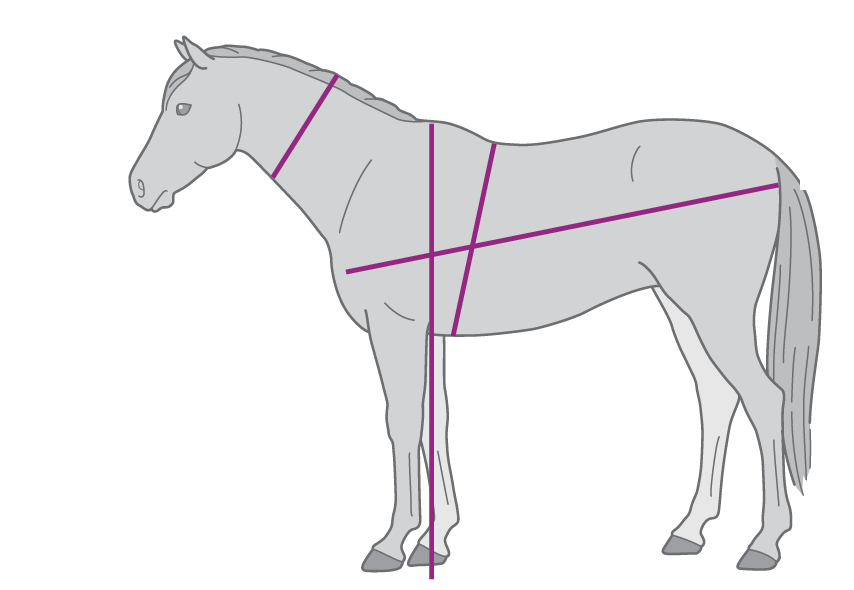
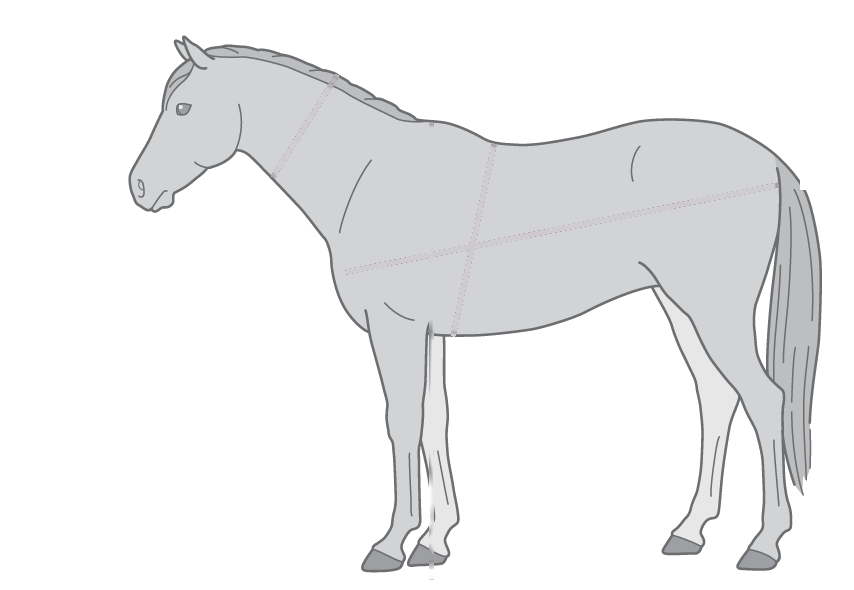
Alinea líneas anatómicas del diagrama morfométrico con las marcas guía del caballo
Ajusta coordenadas de las líneas NC, G y L (H ya estaba correcta) para que
coincidan exactamente con los puntos anatómicos de referencia en la imagen.

diff --git a/css/style.css b/css/style.css
@@ -366,9 +366,9 @@ body::before {
 }
 
 .unit-btn.active {
-  background: var(--accent-cyan);
+  background: linear-gradient(135deg, #16a34a 0%, #15803d 100%);
   color: #ffffff;
-  box-shadow: var(--shadow-sm);
+  box-shadow: 0 3px 10px rgba(22, 163, 74, 0.3);
 }
 
 /* Grid Layouts */
@@ -436,8 +436,8 @@ body::before {
 }
 
 .morphometric-measure--nc {
-  --measure-color: #9333ea;
-  --measure-soft: #faf5ff;
+  --measure-color: #92400e;
+  --measure-soft: #fef3c7;
 }
 
 .morphometric-measure--h {
@@ -446,13 +446,38 @@ body::before {
 }
 
 .morphometric-measure--g {
-  --measure-color: #b45309;
+  --measure-color: #d97706;
   --measure-soft: #fffbeb;
 }
 
 .morphometric-measure--l {
-  --measure-color: #0369a1;
-  --measure-soft: #f0f9ff;
+  --measure-color: #14532d;
+  --measure-soft: #dcfce7;
+}
+
+.morphometric-measure .form-control {
+  border-color: var(--measure-color) !important;
+  color: var(--measure-color) !important;
+  font-weight: 800 !important;
+  font-size: 1.1rem;
+}
+
+.morphometric-measure .form-control:focus {
+  border-color: var(--measure-color) !important;
+  box-shadow: 0 0 0 3px rgba(0, 0, 0, 0.08);
+}
+
+.morphometric-measure .input-unit {
+  color: var(--measure-color) !important;
+  font-weight: 800 !important;
+}
+
+.morphometric-measure .range-slider::-webkit-slider-thumb {
+  background: var(--measure-color) !important;
+}
+
+.morphometric-measure .range-slider::-moz-range-thumb {
+  background: var(--measure-color) !important;
 }
 
 .form-group .morphometric-measure-label {
@@ -460,7 +485,8 @@ body::before {
   border-left: 4px solid var(--measure-color);
   border-radius: 0 7px 7px 0;
   background: var(--measure-soft);
-  color: var(--measure-color);
+  color: var(--measure-color) !important;
+  font-weight: 800 !important;
   font-size: 0.92rem;
   line-height: 1.35;
 }
@@ -850,20 +876,20 @@ body::before {
   align-items: center;
   gap: 0.5rem;
   padding: 0.6rem 1rem;
-  background: linear-gradient(135deg, #0284c7 0%, #0369a1 100%);
+  background: linear-gradient(135deg, #16a34a 0%, #15803d 100%);
   color: #ffffff !important;
   font-weight: 700;
   font-size: 0.84rem;
   border-radius: var(--radius-sm);
   text-decoration: none;
   transition: all 0.25s ease;
-  box-shadow: 0 3px 10px rgba(2, 132, 199, 0.25);
+  box-shadow: 0 3px 10px rgba(22, 163, 74, 0.28);
 }
 
 .tech-note-link-btn:hover {
-  background: linear-gradient(135deg, #0369a1 0%, #075985 100%);
+  background: linear-gradient(135deg, #15803d 0%, #166534 100%);
   transform: translateY(-2px);
-  box-shadow: 0 5px 15px rgba(2, 132, 199, 0.4);
+  box-shadow: 0 5px 15px rgba(22, 163, 74, 0.4);
   color: #ffffff !important;
 }
 
@@ -2352,7 +2378,7 @@ button,
 }
 
 .s-btn-toggle-water-sim {
-  display: flex; align-items: center; justify-content: center; gap: 0.5rem; width: 100%; margin-top: 1.1rem; padding: 0.75rem 1rem; background: linear-gradient(135deg, #0369a1 0%, #0284c7 60%, #38bdf8 100%); color: #fff; font-size: 0.9rem; font-weight: 700; border: none; border-radius: 10px; cursor: pointer; letter-spacing: 0.01em; box-shadow: 0 4px 14px rgba(14,165,233,0.35); transition: all 0.22s ease;
+  display: flex; align-items: center; justify-content: center; gap: 0.5rem; width: 100%; margin-top: 1.1rem; padding: 0.75rem 1rem; background: linear-gradient(135deg, #16a34a 0%, #15803d 60%, #166534 100%); color: #fff; font-size: 0.9rem; font-weight: 700; border: none; border-radius: 10px; cursor: pointer; letter-spacing: 0.01em; box-shadow: 0 4px 14px rgba(22, 163, 74, 0.35); transition: all 0.22s ease;
 }
 
 .s-btn-water-sim-arrow {
@@ -2360,7 +2386,7 @@ button,
 }
 
 .s-water-simulator {
-  margin-top: 1rem; background: linear-gradient(160deg, #082f49 0%, #075985 58%, #0c4a6e 100%); border: 1px solid rgba(56,189,248,0.55); border-radius: 12px; padding: 1.3rem 1.4rem; animation: fadeInDown 0.3s ease; box-shadow: 0 8px 26px rgba(3,105,161,0.32);
+  margin-top: 1rem; background: linear-gradient(160deg, #052e16 0%, #14532d 58%, #166534 100%); border: 1px solid rgba(74, 222, 128, 0.45); border-radius: 12px; padding: 1.3rem 1.4rem; animation: fadeInDown 0.3s ease; box-shadow: 0 8px 26px rgba(22, 163, 74, 0.32);
 }
 
 .nutrition-div-02 {
@@ -2368,15 +2394,15 @@ button,
 }
 
 .u-extracted-02 {
-  font-size:0.78rem; color:#bae6fd; font-weight:700; display:block; margin-bottom:0.3rem;
+  font-size:0.78rem; color:#bbf7d0; font-weight:700; display:block; margin-bottom:0.3rem;
 }
 
 .u-extracted-03 {
-  width:100%; padding:0.5rem 0.7rem; border-radius:8px; background:#082f49; border:1px solid rgba(125,211,252,0.5); color:#ffffff; font-size:0.83rem; cursor:pointer;
+  width:100%; padding:0.5rem 0.7rem; border-radius:8px; background:#052e16; border:1px solid rgba(74, 222, 128, 0.4); color:#ffffff; font-size:0.83rem; cursor:pointer;
 }
 
 .u-extracted-04 {
-  background:#082f49; color:#fff;
+  background:#052e16; color:#fff;
 }
 
 .nutrition-div-03 {
@@ -2384,15 +2410,15 @@ button,
 }
 
 .s-sim-body-weight {
-  width:100%; padding:0.5rem 0.7rem; border-radius:8px; background:#082f49; border:1px solid rgba(125,211,252,0.5); color:#ffffff; font-size:0.83rem; box-sizing:border-box;
+  width:100%; padding:0.5rem 0.7rem; border-radius:8px; background:#052e16; border:1px solid rgba(74, 222, 128, 0.4); color:#ffffff; font-size:0.83rem; box-sizing:border-box;
 }
 
 .s-water-sim-result {
-  background: rgba(56,189,248,0.14); border: 1.5px solid rgba(125,211,252,0.55); border-radius: 10px; padding: 1rem 1.2rem; text-align: center;
+  background: rgba(34, 197, 94, 0.18); border: 1.5px solid rgba(74, 222, 128, 0.55); border-radius: 10px; padding: 1rem 1.2rem; text-align: center;
 }
 
 .nutrition-div-04 {
-  font-size:0.75rem; color:#bae6fd; font-weight:700; text-transform:uppercase; letter-spacing:0.06em; margin-bottom:0.3rem;
+  font-size:0.75rem; color:#bbf7d0; font-weight:700; text-transform:uppercase; letter-spacing:0.06em; margin-bottom:0.3rem;
 }
 
 .s-sim-result-value {
@@ -2400,15 +2426,15 @@ button,
 }
 
 .s-sim-result-range {
-  font-size:0.78rem; color:#bae6fd; margin-top:0.25rem;
+  font-size:0.78rem; color:#bbf7d0; margin-top:0.25rem;
 }
 
 .s-sim-result-note {
-  font-size:0.76rem; color:#dbeafe; margin-top:0.5rem; font-style:italic;
+  font-size:0.76rem; color:#dcfce7; margin-top:0.5rem; font-style:italic;
 }
 
 .s-btn-scroll-water-table {
-  display: flex; align-items: center; justify-content: center; gap: 0.55rem; width: 100%; margin-top: 1rem; padding: 0.65rem 1rem; background: rgba(255,255,255,0.1); color: #ffffff; font-size: 0.83rem; font-weight: 700; border: 1.5px solid rgba(255,255,255,0.4); border-radius: 9px; cursor: pointer; letter-spacing: 0.01em; transition: all 0.2s ease;
+  display: flex; align-items: center; justify-content: center; gap: 0.55rem; width: 100%; margin-top: 1rem; padding: 0.65rem 1rem; background: linear-gradient(135deg, #16a34a 0%, #15803d 100%); color: #ffffff; font-size: 0.83rem; font-weight: 700; border: 1.5px solid rgba(255,255,255,0.4); border-radius: 9px; cursor: pointer; letter-spacing: 0.01em; transition: all 0.2s ease; box-shadow: 0 4px 12px rgba(0,0,0,0.25);
 }
 
 .water-guide-inline-link {
@@ -2571,19 +2597,20 @@ button,
   min-height: 44px;
   padding: 0.72rem 1.15rem;
   border-radius: 10px;
-  background: linear-gradient(135deg, #0369a1, #0284c7);
+  background: linear-gradient(135deg, #16a34a, #15803d);
   color: #fff;
   font-size: 0.84rem;
   font-weight: 800;
   text-decoration: none;
   white-space: nowrap;
-  box-shadow: 0 5px 14px rgba(3, 105, 161, 0.28);
+  box-shadow: 0 5px 14px rgba(22, 163, 74, 0.3);
   transition: transform 0.2s ease, box-shadow 0.2s ease;
 }
 
 .water-guide-download-button:hover {
   transform: translateY(-2px);
-  box-shadow: 0 8px 18px rgba(3, 105, 161, 0.38);
+  background: linear-gradient(135deg, #15803d, #166534);
+  box-shadow: 0 8px 18px rgba(22, 163, 74, 0.4);
 }
 
 .nutrition-div-09 {
@@ -2954,4 +2981,66 @@ button,
 
 .product-p-04 {
   margin-top:4px; font-size:0.74rem; color:#6b7280; max-width:950px; margin-left:auto; margin-right:auto; line-height:1.4;
+}
+
+/* ==========================================================================
+   Aclaratoria y Botón de Navegación de Resultados en Teléfonos (Mobile Only)
+   ========================================================================== */
+.mobile-only-notice {
+  display: none;
+}
+
+@media (max-width: 760px) {
+  .mobile-only-notice {
+    display: block;
+    background: #f0fdf4;
+    border: 1px solid rgba(34, 197, 94, 0.4);
+    border-left: 5px solid #16a34a;
+    border-radius: var(--radius-sm);
+    padding: 0.9rem 1rem;
+    margin-bottom: 1.2rem;
+    box-shadow: 0 4px 12px rgba(22, 163, 74, 0.08);
+  }
+  
+  .mobile-notice-text {
+    font-size: 0.85rem;
+    color: #15803d;
+    margin-bottom: 0.7rem;
+    line-height: 1.45;
+  }
+
+  .btn-mobile-scroll-weight {
+    width: 100%;
+    display: flex;
+    align-items: center;
+    justify-content: center;
+    gap: 0.5rem;
+    padding: 0.75rem 1rem;
+    background: linear-gradient(135deg, #16a34a 0%, #15803d 100%);
+    color: #ffffff !important;
+    font-weight: 800;
+    font-size: 0.88rem;
+    border: none;
+    border-radius: 8px;
+    box-shadow: 0 4px 12px rgba(22, 163, 74, 0.3);
+    cursor: pointer;
+    transition: all 0.22s ease;
+  }
+  
+  .btn-mobile-scroll-weight:hover,
+  .btn-mobile-scroll-weight:active {
+    background: linear-gradient(135deg, #15803d 0%, #166534 100%);
+    transform: translateY(1px);
+    box-shadow: 0 6px 16px rgba(22, 163, 74, 0.4);
+  }
+
+  .btn-mobile-scroll-weight .arrow-down {
+    font-size: 1rem;
+    animation: bounceDown 1.5s infinite;
+  }
+}
+
+@keyframes bounceDown {
+  0%, 100% { transform: translateY(0); }
+  50% { transform: translateY(3px); }
 }

diff --git a/index.html b/index.html
@@ -95,6 +95,17 @@
         <div class="glass-card">
           <h3 class="card-title"><span>📏</span> Mediciones Morfométricas</h3>
           
+          <!-- Aclaratoria y botón de navegación a resultados (SOLO EN TELÉFONOS MÓVILES) -->
+          <div class="mobile-only-notice">
+            <p class="mobile-notice-text">
+              💡 <strong>Instrucciones:</strong> Ingresa o desliza las medidas de tu caballo a continuación. La figura anatómica y la estimación del peso vivo se calculan automáticamente más abajo.
+            </p>
+            <button type="button" class="btn-mobile-scroll-weight" onclick="document.getElementById('resultHeroBox').scrollIntoView({behavior: 'smooth'})">
+              <span>⚖ Presiona aquí para ver el peso estimado</span>
+              <span class="arrow-down">👇</span>
+            </button>
+          </div>
+
           <!-- Input NC -->
           <div class="form-group morphometric-measure morphometric-measure--nc">
             <label for="inputNC" class="morphometric-measure-label">NC: Circunferencia del Cuello</label>
@@ -153,13 +164,26 @@
               <!-- Exact Diagram Image from Original Study -->
               <img src="assets/diagrama_caballo.png" alt="Ubicación de las medidas morfométricas más comunes - Carter & Dugdale 2014" class="realistic-horse-img">
 
-              <!-- Interactive SVG Layer Overlay: Clean Live Measurement Value Badges -->
+              <!-- Interactive SVG Layer Overlay: Clean Live Measurement Value Badges & Vector Lines -->
               <svg viewBox="0 0 854 590" class="svg-overlay-layer">
+                <!-- 100% Solid Vector Measurement Lines (NC, H, G, L) -->
+                <!-- NC Line: Neck Circumference (Marrón Lipídico #92400e) -->
+                <line x1="337" y1="74" x2="276" y2="178" stroke="#92400e" stroke-width="4.5" stroke-linecap="round"/>
+
+                <!-- L Line: Body Length (Verde Oscuro Profundo #14532d) -->
+                <line x1="345" y1="269" x2="778" y2="183" stroke="#14532d" stroke-width="4.5" stroke-linecap="round"/>
+
+                <!-- G Line: Girth Circumference (Ámbar Mostaza #d97706) -->
+                <line x1="493" y1="143" x2="456" y2="336" stroke="#d97706" stroke-width="4.5" stroke-linecap="round"/>
+
+                <!-- H Line: Height at Withers (Verde Esmeralda #16a34a) -->
+                <line x1="432" y1="124" x2="432" y2="575" stroke="#16a34a" stroke-width="4.5" stroke-linecap="round"/>
+
                 <!-- Live Value Badges (Recuadros de medición) -->
                 <!-- NC Badge -->
                 <g transform="translate(290, 45)">
-                  <rect width="120" height="28" rx="6" fill="#ffffff" stroke="#9333ea" stroke-width="2.5" filter="drop-shadow(0px 2px 4px rgba(0,0,0,0.15))"/>
-                  <text id="svgBadgeNC" x="60" y="19" text-anchor="middle" fill="#9333ea" font-size="13" font-weight="800">NC: 85 cm</text>
+                  <rect width="120" height="28" rx="6" fill="#ffffff" stroke="#92400e" stroke-width="2.5" filter="drop-shadow(0px 2px 4px rgba(0,0,0,0.15))"/>
+                  <text id="svgBadgeNC" x="60" y="19" text-anchor="middle" fill="#92400e" font-size="13" font-weight="800">NC: 85 cm</text>
                 </g>
 
                 <!-- H Badge -->
@@ -171,20 +195,20 @@
                 <!-- G Badge -->
                 <g transform="translate(500, 105)">
                   <rect width="120" height="28" rx="6" fill="#ffffff" stroke="#d97706" stroke-width="2.5" filter="drop-shadow(0px 2px 4px rgba(0,0,0,0.15))"/>
-                  <text id="svgBadgeG" x="60" y="19" text-anchor="middle" fill="#b45309" font-size="13" font-weight="800">G: 180 cm</text>
+                  <text id="svgBadgeG" x="60" y="19" text-anchor="middle" fill="#d97706" font-size="13" font-weight="800">G: 180 cm</text>
                 </g>
 
                 <!-- L Badge -->
                 <g transform="translate(725, 145)">
-                  <rect width="120" height="28" rx="6" fill="#ffffff" stroke="#0284c7" stroke-width="2.5" filter="drop-shadow(0px 2px 4px rgba(0,0,0,0.15))"/>
-                  <text id="svgBadgeL" x="60" y="19" text-anchor="middle" fill="#0369a1" font-size="13" font-weight="800">L: 165 cm</text>
+                  <rect width="120" height="28" rx="6" fill="#ffffff" stroke="#166534" stroke-width="2.5" filter="drop-shadow(0px 2px 4px rgba(0,0,0,0.15))"/>
+                  <text id="svgBadgeL" x="60" y="19" text-anchor="middle" fill="#14532d" font-size="13" font-weight="800">L: 165 cm</text>
                 </g>
               </svg>
             </div>
           </div>
 
           <!-- Hero Display del Peso Estimado con el Modelo Seleccionado -->
-          <div class="result-hero-box" role="status" aria-live="polite" aria-atomic="true">
+          <div class="result-hero-box" id="resultHeroBox" role="status" aria-live="polite" aria-atomic="true">
             <div class="weight-sub morphometrics-div-04">MODELO SELECCIONADO: <span id="heroModelName" class="u-extracted-01">Carroll & Huntington (1988)</span></div>
             <div>
               <span id="heroWeightVal" class="weight-val">450</span>
